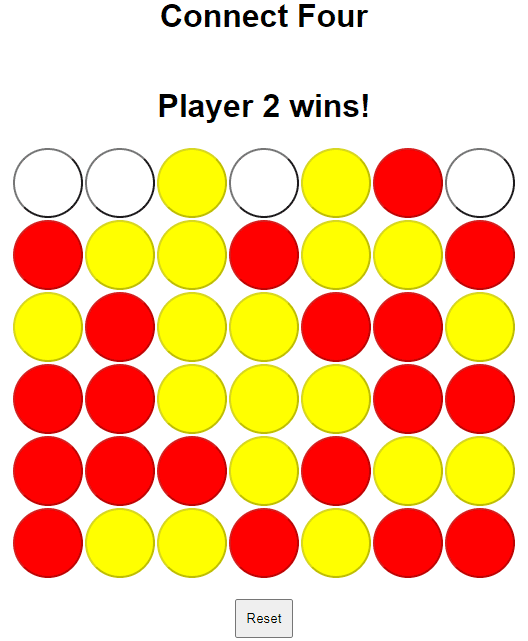
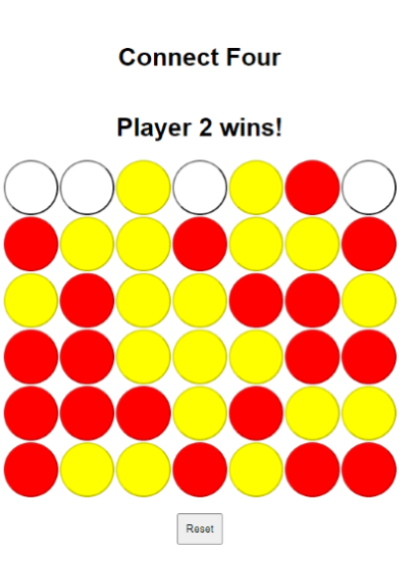
minor updates

diff --git a/src/components/works/Works.jsx b/src/components/works/Works.jsx
@@ -10,8 +10,8 @@ export default function Works()
             id: '1',
             icon: 'static/discord.png',
             title: 'Discord Python Bot',
-            desc: "I made a python discord bot that provides positive encouragement when it detects sad words via discord chat. This is done through a list of sad words which the discord bot will search and compare. You are also given the ability to add new sad keywords or encouragements.",
-            img: 'static/fbtest.png',
+            desc: "I coded a discord bot with python that provides positive encouragement when it detects sad words via discord chat. This is done through a list of sad words which the discord bot will search and compare. You are also able to add new sad keywords or encouragements which allows for customizability. The main reason behind coding this bot was to look for real world applications of python.",
+            img: 'static/friendlybot.png',
             link: 'https://github.com/chrischen842/Friendly-Bot',
         },
         {
@@ -26,16 +26,16 @@ export default function Works()
             id: '3',
             icon: 'static/r.png',
             title: 'Connect Four',
-            desc: 'Lorem ipsum dolor sit amet, consectetur adipisicing elit.',
-            img: 'static/connectfourtest.png',
+            desc: 'I constructed this replica of connect four for my Web Technologies course. The rules of this game are the same as the traditional connect four games where the goal is to get four coins in a row, column, or diagonally. Additionally, this game was coded in react and from this assignment, I learned a lot about how to use and apply the concepts of react.',
+            img: 'static/connectfour.png',
             link: 'https://github.com/ShaimaaAliECE/lab2-chrischen842',
         },
         {
             id: '4',
             icon: 'static/rpgicon.png',
             title: 'Slime Slayer',
-            desc: 'Lorem ipsum dolor sit amet, consectetur adipisicing elit.',
-            img: 'static/rpggametest.png',
+            desc: 'My group and I constructed Slime Slayer in Unity for our Software Construction course as our final project. The development of this game was split into 3 phases where we carefully designed the game along with all the UML diagrams concerning this game. Additionally, the majority of this game being coded in C#.',
+            img: 'static/rpggamecrop.png',
             link: 'https://github.com/JiyongSong1/SE2250_jsong386',
         },
     ]

diff --git a/src/components/aboutMe/AboutMe.jsx b/src/components/aboutMe/AboutMe.jsx
@@ -12,7 +12,7 @@ export default function AboutMe()
                 </div>
                 <div className='textContainer'>
                     <p className='text'>
-                        Lorem ipsum dolor sit amet consectetur adipisicing elit. Corrupti explicabo, eum rerum molestiae repellat, deleniti delectus labore, esse ratione debitis id doloremque cupiditate veritatis placeat autem error ipsa deserunt earum.
+                        My name is Chris Chen and I am a third year Software Engineering Student who is currently studying at the University of Western Ontario. My interests include coding, gaming, and trying various foods from different cultures.  
                     </p>
                 </div>  
                 <div className='icon'>

diff --git a/src/components/works/works.scss b/src/components/works/works.scss
@@ -69,7 +69,7 @@
                     .leftContainer
                     {
                         width: 90%;
-                        height: 40%;
+                        height: 45%;
                         display: flex;
                         flex-direction: column;
                         justify-content: space-between;
@@ -91,7 +91,8 @@
                         h2
                         {
                             color: white;
-                            font-style: 30px;
+                            font-size: 30px;
+                            text-decoration: underline;
                         }
 
                         p
